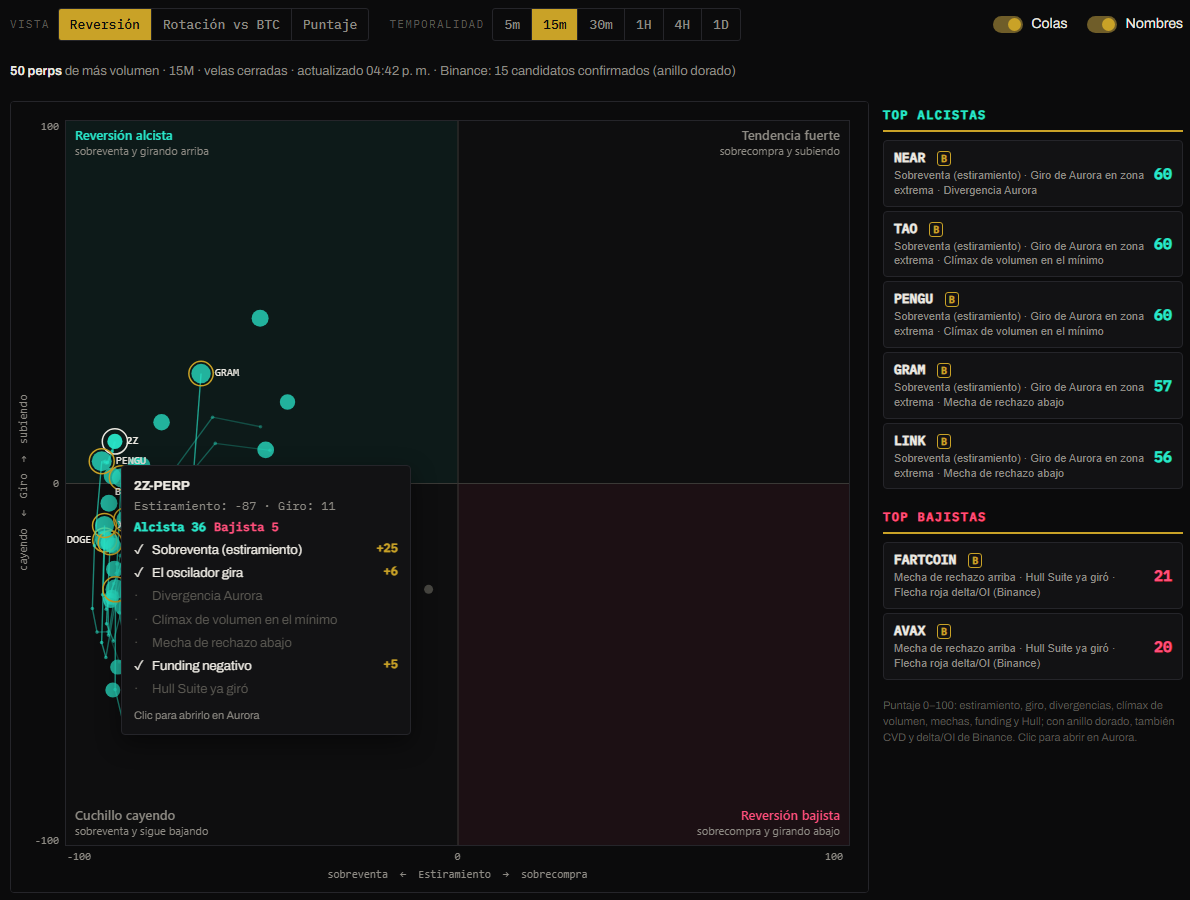
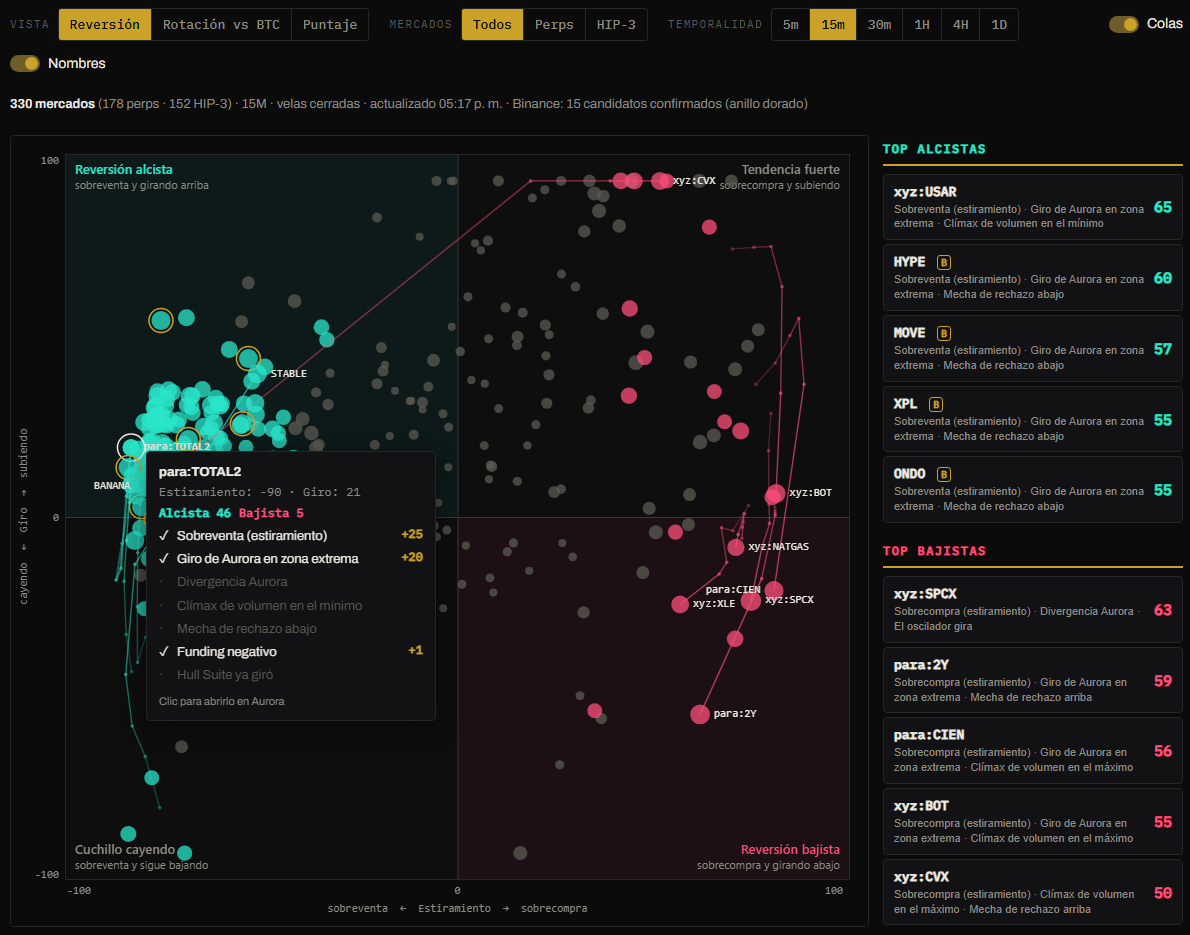
Scanner: todos los perps de crypto y HIP-3 (330 mercados)
- Universo seleccionable: Todos, Perps o HIP-3, en orden de volumen.
- Carga progresiva al ritmo que permite Hyperliquid (~45 por minuto), con
  avance y tiempo restante; se pausa si el Scanner no está a la vista.
- El WebSocket queda abierto: los datos siguen al día y cambiar de universo
  o volver a la sección no recarga nada. Si hay un corte, se pide de nuevo.
- Solo se recalculan los mercados con datos nuevos; funding de todos los dex.
- Binance se confirma apenas hay 60 mercados cargados.
- Plano con margen en los extremos y nombres de los 7 mejores de cada lado.

diff --git a/src/js/scanner/ui.js b/src/js/scanner/ui.js
@@ -1,4 +1,4 @@
-// Scanner · plano cartesiano con los 50 perps de más volumen. Tres vistas: Reversión (estiramiento
+// Scanner · plano cartesiano con todos los perps de crypto y HIP-3 de Hyperliquid. Tres vistas: Reversión (estiramiento
 // contra giro), Rotación contra BTC (tipo RRG) y Puntaje (alcista contra bajista). Solo velas cerradas.
 // env: { live, CAT, loadCatalog, hlPost, labelOf, openAurora(alias, tf) }
 window.createScanner = function createScanner(env) {
@@ -8,7 +8,9 @@ window.createScanner = function createScanner(env) {
   const WS_URL = 'wss://api.hyperliquid.xyz/ws', BF = 'https://fapi.binance.com';
   const IV_MS = { '5m': 3e5, '15m': 9e5, '30m': 18e5, '1h': 36e5, '4h': 144e5, '1d': 864e5 };
   const TF_AURORA = { '5m': '5', '15m': '15', '30m': '30', '1h': '60', '4h': '240', '1d': '1D' };
-  const UNIVERSE = 50, BARS = 150, TAIL = 5, BINANCE_TOP = 15;   // 150 velas: Aurora necesita ~60 para calentar
+  const BARS = 150, TAIL = 5, BINANCE_TOP = 15;   // 150 velas: Aurora necesita ~60 para calentar
+  const PER_MIN = 45;                              // historiales por minuto que permite Hyperliquid (peso ~23 c/u, 1100 por minuto)
+  const UNI = { all: (m) => m.group === 'perp' || m.group === 'hip3', perp: (m) => m.group === 'perp', hip3: (m) => m.group === 'hip3' };
   const COL = { bg: '#0B0B0C', line: '#25252A', axis: '#3A3936', text: '#8E8B84', fg: '#ECE9E2', bull: '#29E6C9', bear: '#FF4F7B', gold: '#C9A227', grey: '#5B5953' };
   const MODES = {
     rev: {
@@ -28,69 +30,106 @@ window.createScanner = function createScanner(env) {
   // ── Estado ─────────────────────────────────────────────────────────────
   const KEY = 'baScanner';
   let saved = null; try { saved = JSON.parse(localStorage.getItem(KEY)); } catch {}
-  const st = { mode: 'rev', tf: '15m', tails: true, names: true, ...(saved || {}) };
+  const st = { mode: 'rev', tf: '15m', uni: 'all', tails: true, names: true, ...(saved || {}) };
   if (!MODES[st.mode]) st.mode = 'rev';
   if (!IV_MS[st.tf]) st.tf = '15m';
+  if (!UNI[st.uni]) st.uni = 'all';
   const save = () => { try { localStorage.setItem(KEY, JSON.stringify(st)); } catch {} };
 
-  const data = new Map();    // alias → { k:[velas], res, flow, err }
-  let universe = [], funding = new Map(), ws = null, wsTimer = null, visible = false, token = 0;
-  let loaded = 0, lastCalc = 0, binanceAt = 0, binSet = null, pts = [], hover = null, drawQueued = false, calcTimer = null, binTimer = null;
+  // data: alias → { k:[velas], res, flow, dirty, stale }. Se conserva al cambiar de universo; se vacía al cambiar de temporalidad.
+  const data = new Map(), byCoin = new Map();
+  let universe = [], inUni = new Set(), need = [], queue = [], funding = new Map(), fundingAt = new Map();
+  let ws = null, wsTimer = null, visible = false, started = false, token = 0, loaderToken = -1, waiters = [];
+  let lastCalc = 0, binanceAt = 0, binSet = null, pts = [], hover = null, drawQueued = false, calcTimer = null, binTimer = null;
   const real = (alias) => env.CAT.realOf.get(alias) || alias;
-  const nameOf = (alias) => { const m = env.CAT.byAlias.get(alias); return m ? m.real : alias; };
+  const market = (alias) => env.CAT.byAlias.get(alias);
+  const nameOf = (alias) => { const m = market(alias); return m ? m.real : alias; };
   const toK = (x) => ({ t: +x.t, o: +x.o, h: +x.h, l: +x.l, c: +x.c, v: +x.v });
   const closedOf = (k) => { const now = Date.now(), ms = IV_MS[st.tf]; let n = k.length; while (n && k[n - 1].t + ms > now) n--; return k.slice(0, n); };
 
   // ── Datos de Hyperliquid ───────────────────────────────────────────────
+  // Funding de cada dex (el principal y los HIP-3), como mucho una vez cada 30 minutos.
   async function loadFunding() {
-    try {
-      const [meta, ctx] = await env.hlPost({ type: 'metaAndAssetCtxs' });
-      funding = new Map(meta.universe.map((u, i) => [u.name, +(ctx[i] || {}).funding]));
-    } catch {}
+    const dexes = [...new Set(need.map((a) => (market(a) || {}).dex || ''))];
+    await Promise.all(dexes.filter((d) => !(Date.now() - (fundingAt.get(d) || 0) < 30 * 60000)).map(async (dex) => {
+      try {
+        const [meta, ctx] = await env.hlPost(dex ? { type: 'metaAndAssetCtxs', dex } : { type: 'metaAndAssetCtxs' });
+        meta.universe.forEach((u, i) => funding.set(u.name, +(ctx[i] || {}).funding));
+        fundingAt.set(dex, Date.now());
+      } catch {}
+    }));
   }
+  const subscribe = (alias) => { if (ws && ws.readyState === 1) ws.send(JSON.stringify({ method: 'subscribe', subscription: { type: 'candle', coin: real(alias), interval: st.tf } })); };
   async function loadOne(alias, my) {
     const now = Date.now();
     try {
       const rows = await env.hlPost({ type: 'candleSnapshot', req: { coin: real(alias), interval: st.tf, startTime: now - BARS * IV_MS[st.tf], endTime: now } });
       if (my !== token) return;
-      data.set(alias, { k: (rows || []).map(toK), res: null, flow: null });
-    } catch { if (my === token) data.set(alias, { k: [], err: true }); }
-    loaded++;
+      const had = data.has(alias) && !data.get(alias).err;
+      data.set(alias, { k: (rows || []).map(toK), res: null, flow: null, dirty: true, stale: false });
+      byCoin.set(real(alias), alias);
+      if (!had) subscribe(alias);
+    } catch { if (my === token && !data.has(alias)) data.set(alias, { k: [], res: null, dirty: false, stale: false, err: true }); }
   }
-  async function loadAll() {
-    const my = ++token;
-    data.clear(); loaded = 0; pts = []; binanceAt = 0;
-    universe = env.CAT.list.filter((m) => m.group === 'perp').slice(0, UNIVERSE).map((m) => m.alias);
-    if (!universe.includes('BTC')) universe.unshift('BTC');
-    status(); draw();
-    await loadFunding();
-    let i = 0;
-    await Promise.all(Array.from({ length: 4 }, async () => {
-      while (i < universe.length && my === token) { await loadOne(universe[i++], my); if (my === token) { status(); schedule(300); } }
+  // Carga en orden de volumen, de a 3, y se pausa mientras el Scanner no está a la vista (para no frenar al resto).
+  const whenVisible = () => (visible ? null : new Promise((r) => waiters.push(r)));
+  async function runLoader() {
+    if (loaderToken === token) return;
+    const my = loaderToken = token;
+    await Promise.all(Array.from({ length: 3 }, async () => {
+      for (;;) {
+        if (my !== token) return;
+        const w = whenVisible(); if (w) await w;
+        if (my !== token) return;
+        const alias = queue.shift();
+        if (!alias) return;
+        const d = data.get(alias);
+        if (d && !d.stale && !d.err) continue;
+        await loadOne(alias, my);
+        if (my === token) { status(); schedule(800); if (!binanceAt && data.size >= 60) refreshBinance(); }   // confirma los primeros candidatos sin esperar a todos
+      }
     }));
     if (my !== token) return;
-    openWs(); compute(); refreshBinance();
+    loaderToken = -1;
+    if (queue.length) return runLoader();
+    compute(); refreshBinance();
+  }
+  function setUniverse() {
+    universe = env.CAT.list.filter(UNI[st.uni]).map((m) => m.alias);   // ya viene ordenado por volumen
+    inUni = new Set(universe);
+    need = [...new Set(['BTC', ...universe])];                           // BTC siempre: es la referencia de Rotación
+    queue = need.filter((a) => { const d = data.get(a); return !d || d.err; });
+    hover = null;
+    loadFunding(); status(); ranking(); draw();
+    runLoader();
+  }
+  function restart() {
+    token++; loaderToken = -1;
+    data.clear(); byCoin.clear(); pts = []; binanceAt = 0; lastCalc = 0;
+    closeWs(); openWs(); setUniverse();
   }
 
-  // Velas en vivo por WebSocket: cuando abre una vela nueva, la anterior quedó cerrada y se recalcula.
+  // Velas en vivo por WebSocket (sigue abierto aunque no se vea el Scanner, así no hay que volver a pedir historia).
+  // Cuando abre una vela nueva, la anterior quedó cerrada y se recalcula ese mercado.
   function openWs() {
-    closeWs();
-    const w = new WebSocket(WS_URL); ws = w;
+    const w = new WebSocket(WS_URL), my = token; ws = w;
     w.onopen = () => {
-      universe.forEach((a) => w.send(JSON.stringify({ method: 'subscribe', subscription: { type: 'candle', coin: real(a), interval: st.tf } })));
+      for (const [a, d] of data) if (!d.err) subscribe(a);
       wsTimer = setInterval(() => { try { w.send('{"method":"ping"}'); } catch {} }, 50000);
     };
     w.onmessage = (e) => {
       let m; try { m = JSON.parse(e.data); } catch { return; }
       if (m.channel !== 'candle' || !m.data || m.data.i !== st.tf) return;
-      const alias = universe.find((a) => real(a) === m.data.s);
-      const d = alias && data.get(alias);
+      const alias = byCoin.get(m.data.s), d = alias && data.get(alias);
       if (!d || !d.k.length) return;
       const c = toK(m.data), last = d.k[d.k.length - 1];
-      if (c.t === last.t) d.k[d.k.length - 1] = c;
-      else if (c.t > last.t) { d.k.push(c); if (d.k.length > BARS + 20) d.k.shift(); schedule(1500); planBinance(); }
+      if (c.t === last.t) { d.k[d.k.length - 1] = c; return; }
+      if (c.t < last.t) return;
+      if (c.t > last.t + 1.5 * IV_MS[st.tf]) { if (!d.stale) { d.stale = true; queue.push(alias); runLoader(); } return; }   // hubo un corte: pedir de nuevo
+      d.k.push(c); if (d.k.length > BARS + 20) d.k.shift();
+      d.dirty = true; schedule(1500); planBinance();
     };
-    w.onclose = () => { if (ws === w) { ws = null; clearInterval(wsTimer); if (visible) setTimeout(() => visible && !ws && openWs(), 5000); } };
+    w.onclose = () => { if (ws === w) { ws = null; clearInterval(wsTimer); setTimeout(() => my === token && !ws && openWs(), 5000); } };
   }
   function closeWs() { const w = ws; ws = null; clearInterval(wsTimer); if (w) try { w.close(); } catch {} }
 
@@ -101,11 +140,17 @@ window.createScanner = function createScanner(env) {
   }
   const bsym = (alias) => { const r = real(alias); return (/^k[A-Z]/.test(r) ? '1000' + r.slice(1) : r) + 'USDT'; };
   function planBinance() { clearTimeout(binTimer); binTimer = setTimeout(refreshBinance, 20000); }   // OI de Binance se publica unos segundos después del cierre
+  let binBusy = false;
   async function refreshBinance() {
+    if (binBusy) return;
+    binBusy = true;
+    try { await refreshBinanceNow(); } finally { binBusy = false; }
+  }
+  async function refreshBinanceNow() {
     const my = token, set = await binanceSymbols();
-    const ranked = [...data.entries()].filter(([a, d]) => d.res && set.has(bsym(a)))
+    const ranked = [...data.entries()].filter(([a, d]) => d.res && inUni.has(a) && set.has(bsym(a)))
       .sort((p, q) => Math.max(q[1].res.bull, q[1].res.bear) - Math.max(p[1].res.bull, p[1].res.bear)).slice(0, BINANCE_TOP);
-    for (const d of data.values()) d.flow = null;
+    for (const d of data.values()) if (d.flow) { d.flow = null; d.dirty = true; }
     await Promise.all(ranked.map(async ([alias, d]) => {
       const k = closedOf(d.k); if (k.length < 40) return;
       const sym = bsym(alias), ms = IV_MS[st.tf];
@@ -121,19 +166,24 @@ window.createScanner = function createScanner(env) {
         const o = F.oiSeries(times, b.ends, new Map(oi.map((r) => [+r.timestamp, +r.sumOpenInterest])), ms, null);
         // Las señales se guardan por hora de vela: los índices cambian cuando entra una vela nueva.
         const osc = A.compute(k).osc, byT = (e) => ({ ...e, t: times[e.i] });
+        d.dirty = true;
         d.flow = { sym, arrows: F.arrows(b, o.dOi, k.length).map(byT), divs: F.cvdDivergences(k.map((x) => x.h), k.map((x) => x.l), b.cvd, osc, k.length).map(byT) };
       } catch {}
     }));
     if (my !== token) return;
     binanceAt = Date.now();
+    loadFunding();
     compute();
   }
 
   // ── Cálculo ────────────────────────────────────────────────────────────
   function schedule(ms) { clearTimeout(calcTimer); calcTimer = setTimeout(compute, ms); }
   function compute() {
-    const btc = data.get('BTC'), btcK = btc ? closedOf(btc.k) : [];
+    // Solo se recalculan los mercados con datos nuevos; si cambió BTC, todos (es la referencia de Rotación).
+    const btc = data.get('BTC'), btcK = btc ? closedOf(btc.k) : [], all = !!(btc && btc.dirty);
     for (const [alias, d] of data) {
+      if (!all && !d.dirty) continue;
+      d.dirty = false;
       const k = closedOf(d.k);
       if (k.length < 60) { d.res = null; continue; }
       const a = A.compute(k), hull = A.hull(k.map((x) => x.c)), ax = S.axes(k, a);
@@ -156,10 +206,10 @@ window.createScanner = function createScanner(env) {
   // ── Plano ──────────────────────────────────────────────────────────────
   const cv = $('scCv');
   function range(mode) {
-    if (mode === 'rev') return { x0: -100, x1: 100, y0: -100, y1: 100, cx: 0, cy: 0 };
-    if (mode === 'score') return { x0: 0, x1: 100, y0: 0, y1: 100, cx: 40, cy: 40 };
+    if (mode === 'rev') return { x0: -108, x1: 108, y0: -108, y1: 108, cx: 0, cy: 0 };
+    if (mode === 'score') return { x0: -4, x1: 104, y0: -4, y1: 104, cx: 40, cy: 40 };
     let mx = 0.5, my = 0.5;
-    for (const d of data.values()) if (d.res) for (const p of d.res.path) { const [x, y] = p.rrg; if (Number.isFinite(x)) mx = Math.max(mx, Math.abs(x)); if (Number.isFinite(y)) my = Math.max(my, Math.abs(y)); }
+    for (const [a, d] of data) if (d.res && inUni.has(a)) for (const p of d.res.path) { const [x, y] = p.rrg; if (Number.isFinite(x)) mx = Math.max(mx, Math.abs(x)); if (Number.isFinite(y)) my = Math.max(my, Math.abs(y)); }
     return { x0: -mx * 1.15, x1: mx * 1.15, y0: -my * 1.15, y1: my * 1.15, cx: 0, cy: 0 };
   }
   // Lado al que se inclina el punto (para el color y el tamaño).
@@ -201,17 +251,18 @@ window.createScanner = function createScanner(env) {
     g.font = '11px ui-monospace, monospace'; g.fillStyle = COL.text; g.textAlign = 'center';
     g.fillText(`${M.lo}  ←  ${M.x}  →  ${M.hi}`, L + pw / 2, H - 14);
     g.save(); g.translate(16, T + ph / 2); g.rotate(-Math.PI / 2); g.fillText(`${M.ylo}  ←  ${M.y}  →  ${M.yhi}`, 0, 0); g.restore();
-    const fmtAx = (v) => (st.mode === 'rrg' ? (v > 0 ? '+' : '') + v.toFixed(1) + '%' : Math.round(v));
+    const fmtAx = (v) => (st.mode === 'rrg' ? (v > 0 ? '+' : '') + v.toFixed(1) + '%' : Math.max(st.mode === 'score' ? 0 : -100, Math.min(100, Math.round(v))));
     g.textAlign = 'center'; [R.x0, R.cx, R.x1].forEach((v, i) => g.fillText(fmtAx(v), i === 0 ? L + 14 : i === 2 ? L + pw - 16 : X(v), T + ph + 14));
     g.textAlign = 'right'; [R.y0, R.cy, R.y1].forEach((v, i) => g.fillText(fmtAx(v), L - 6, i === 0 ? T + ph - 2 : i === 2 ? T + 10 : Y(v) + 4));
 
     // Puntos: primero los chicos, al final los mejores (quedan arriba).
     pts = [];
-    const items = [...data.entries()].filter(([, d]) => d.res && Number.isFinite(d.res.path[d.res.path.length - 1][st.mode][0]))
+    const items = [...data.entries()].filter(([a, d]) => d.res && inUni.has(a) && Number.isFinite(d.res.path[d.res.path.length - 1][st.mode][0]))
       .map(([alias, d]) => { const s = lean(d), score = s > 0 ? d.res.bull : d.res.bear; return { alias, d, s, score }; })
       .sort((p, q) => p.score - q.score);
-    // Cola y nombre solo para los 14 mejores (y el punto bajo el mouse): con 50 colas no se lee nada.
-    const labelSet = new Set(items.slice(-14).map((x) => x.alias)), names = [];
+    // Cola y nombre solo para los 7 mejores de cada lado (y el punto bajo el mouse): con 300 colas no se lee nada.
+    const top = (side) => items.filter((x) => x.s === side).slice(-7).map((x) => x.alias);
+    const labelSet = new Set([...top(1), ...top(-1)]), names = [];
     // En Rotación el color es el del cuadrante; en las otras vistas, el lado al que se inclina si el puntaje alcanza.
     const rrgCol = ([x, y]) => (x < 0 ? (y >= 0 ? COL.bull : COL.grey) : (y >= 0 ? COL.gold : COL.bear));
     for (const it of items) {
@@ -290,7 +341,7 @@ window.createScanner = function createScanner(env) {
   cv.addEventListener('click', (e) => { const { best } = hit(e); if (best) env.openAurora(best.alias, TF_AURORA[st.tf]); });
 
   function ranking() {
-    const rows = [...data.entries()].filter(([, d]) => d.res);
+    const rows = [...data.entries()].filter(([a, d]) => d.res && inUni.has(a));
     const list = (side) => rows.map(([alias, d]) => ({ alias, d, s: side > 0 ? d.res.bull : d.res.bear }))
       .filter((x) => x.s >= 20).sort((p, q) => q.s - p.s).slice(0, 5)
       .map(({ alias, d, s }) => {
@@ -305,10 +356,13 @@ window.createScanner = function createScanner(env) {
   }));
   function status() {
     const hm = (t) => new Date(t).toLocaleTimeString('es-AR', { hour: '2-digit', minute: '2-digit' });
-    const parts = [];
-    if (loaded < universe.length) parts.push(`Cargando ${loaded}/${universe.length} mercados…`);
-    else if (lastCalc) parts.push(`<b>${[...data.values()].filter((d) => d.res).length} perps</b> de más volumen · ${st.tf.toUpperCase()} · velas cerradas · actualizado ${hm(lastCalc)}`);
-    if (binanceAt) parts.push(`Binance: ${[...data.values()].filter((d) => d.flow).length} candidatos confirmados (anillo dorado)`);
+    const ready = universe.filter((a) => data.has(a)).length, left = universe.length - ready, parts = [];
+    const shown = universe.filter((a) => (data.get(a) || {}).res);
+    const nP = shown.filter((a) => (market(a) || {}).group === 'perp').length, nH = shown.length - nP;
+    if (left > 0) parts.push(`Cargando <b>${ready}/${universe.length}</b> mercados, de mayor a menor volumen · faltan ~${Math.max(1, Math.ceil(left / PER_MIN))} min${visible ? '' : ' (en pausa)'}`);
+    else if (lastCalc) parts.push(`<b>${shown.length} mercados</b> (${nP} perps · ${nH} HIP-3) · ${st.tf.toUpperCase()} · velas cerradas · actualizado ${hm(lastCalc)}`);
+    const nBin = [...data.entries()].filter(([a, d]) => d.flow && inUni.has(a)).length;
+    if (binanceAt && nBin) parts.push(`Binance: ${nBin} candidatos confirmados (anillo dorado)`);
     $('scStatus').innerHTML = parts.join(' · ');
   }
 
@@ -316,31 +370,35 @@ window.createScanner = function createScanner(env) {
   function syncControls() {
     document.querySelectorAll('#scMode button').forEach((b) => b.setAttribute('aria-pressed', String(b.dataset.m === st.mode)));
     document.querySelectorAll('#scTf button').forEach((b) => b.setAttribute('aria-pressed', String(b.dataset.tf === st.tf)));
+    document.querySelectorAll('#scUni button').forEach((b) => b.setAttribute('aria-pressed', String(b.dataset.u === st.uni)));
     $('scTails').checked = st.tails; $('scNames').checked = st.names;
   }
   $('scMode').addEventListener('click', (e) => { const b = e.target.closest('button'); if (!b || b.dataset.m === st.mode) return; st.mode = b.dataset.m; save(); syncControls(); draw(); });
   $('scTf').addEventListener('click', (e) => {
     const b = e.target.closest('button'); if (!b || b.dataset.tf === st.tf) return;
-    st.tf = b.dataset.tf; save(); syncControls(); closeWs(); loadAll();
+    st.tf = b.dataset.tf; save(); syncControls(); if (started) restart();
+  });
+  $('scUni').addEventListener('click', (e) => {
+    const b = e.target.closest('button'); if (!b || b.dataset.u === st.uni) return;
+    st.uni = b.dataset.u; save(); syncControls(); if (started) setUniverse();
   });
   $('scTails').addEventListener('change', (e) => { st.tails = e.target.checked; save(); draw(); });
   $('scNames').addEventListener('change', (e) => { st.names = e.target.checked; save(); draw(); });
   window.addEventListener('resize', () => visible && draw());
   syncControls();
 
-  let started = false, hiddenAt = 0;
   return {
     async show() {
       visible = true; draw();
+      waiters.splice(0).forEach((r) => r());   // reanuda la carga si estaba en pausa
       if (!env.live) { status(); return; }
       if (!started) {
         started = true;
         if (!env.CAT.ready) { try { await env.loadCatalog(); } catch {} }
-        loadAll();
-      } else if (hiddenAt && Date.now() - hiddenAt > IV_MS[st.tf]) loadAll();   // se perdió al menos una vela: datos nuevos
-      else if (!ws && universe.length) { openWs(); schedule(500); }
-      hiddenAt = 0;
+        openWs(); setUniverse();
+      } else status();
     },
-    hide() { if (visible) hiddenAt = Date.now(); visible = false; closeWs(); tip.hidden = true; }
+    // El WebSocket sigue abierto: los datos se mantienen al día y al volver no hay que recargar.
+    hide() { visible = false; tip.hidden = true; }
   };
 };

diff --git a/src/index.html b/src/index.html
@@ -417,13 +417,19 @@
   <section id="panel-scan" class="sc" aria-labelledby="h-scan" hidden>
   <header class="view-head">
     <h1 id="h-scan">Scanner · Reversiones</h1>
-    <p class="sp-cap"><b>Los 50 perps de más volumen en un plano: quién está estirado y quién ya empezó a girar.</b> Cada punto es un mercado; su cola muestra las últimas 5 velas cerradas.</p>
+    <p class="sp-cap"><b>Todos los perps de crypto y HIP-3 de Hyperliquid en un plano: quién está estirado y quién ya empezó a girar.</b> Cada punto es un mercado; su cola muestra las últimas 5 velas cerradas.</p>
   </header>
   <div class="controls" role="group" aria-label="Scanner">
     <div class="ctl">
       <span class="lbl">Vista</span>
       <div class="seg scroll" id="scMode">
         <button type="button" data-m="rev" aria-pressed="true">Reversión</button><button type="button" data-m="rrg">Rotación vs BTC</button><button type="button" data-m="score">Puntaje</button>
+      </div>
+    </div>
+    <div class="ctl">
+      <span class="lbl">Mercados</span>
+      <div class="seg scroll" id="scUni">
+        <button type="button" data-u="all" aria-pressed="true">Todos</button><button type="button" data-u="perp">Perps</button><button type="button" data-u="hip3">HIP-3</button>
       </div>
     </div>
     <div class="ctl">

diff --git a/docs/secciones/scanner.md b/docs/secciones/scanner.md
@@ -1,10 +1,10 @@
 ---
-description: Los 50 perps de más volumen en un plano, para encontrar los mejores momentos de reversión.
+description: Todos los perps de crypto y HIP-3 de Hyperliquid en un plano, para encontrar los mejores momentos de reversión.
 ---
 
 # Scanner
 
-Ubica los **50 perps de más volumen de Hyperliquid** en un plano cartesiano. Cada punto es un mercado y su posición responde dos preguntas: **¿qué tan estirado está?** y **¿ya empezó a girar?** Los mejores candidatos a reversión quedan en dos esquinas.
+Ubica **todos los perps de crypto y los mercados HIP-3 de Hyperliquid** (más de 300) en un plano cartesiano. Cada punto es un mercado y su posición responde dos preguntas: **¿qué tan estirado está?** y **¿ya empezó a girar?** Los mejores candidatos a reversión quedan en dos esquinas.
 
 ![Scanner en la vista Reversión](../.gitbook/assets/scanner.png)
 
@@ -17,6 +17,7 @@ El Scanner **no da entradas: muestra dónde mirar.** Hacé clic en un punto para
 | Control | Qué hace |
 |---|---|
 | **Vista** | Reversión, Rotación vs BTC o Puntaje: tres formas de leer el mismo grupo de mercados. |
+| **Mercados** | **Todos**, solo **Perps** de crypto o solo **HIP-3** (acciones, índices, materias primas y otros mercados de los dex HIP-3). |
 | **Temporalidad** | 5m, 15m, 30m, 1H, 4H o 1D. |
 | **Colas** | El recorrido de las últimas 5 velas cerradas de los mejores candidatos. |
 | **Nombres** | Los nombres de los mejores candidatos sobre el plano. |
@@ -79,8 +80,17 @@ Las dos condiciones de Binance se revisan para los **15 mejores candidatos** que
 A la derecha, **Top alcistas** y **Top bajistas** muestran los 5 mejores de cada lado con sus tres motivos principales.
 
 {% hint style="info" %}
-**Nada se repinta.** Todo se calcula con **velas cerradas** y se actualiza solo cuando cierra cada vela. Al abrir el Scanner, la primera carga puede tardar alrededor de un minuto: son 50 mercados y Hyperliquid limita la cantidad de pedidos.
+**Nada se repinta.** Todo se calcula con **velas cerradas** y se actualiza solo cuando cierra cada vela.
 {% endhint %}
+
+## La primera carga
+
+Hyperliquid permite pedir el historial de unos **45 mercados por minuto**, así que la primera carga completa tarda **unos 7 minutos** con *Todos* (unos 4 con *Perps* y 3 con *HIP-3*). Para que sea útil desde el principio:
+
+- Los mercados se cargan **de mayor a menor volumen**: los más líquidos aparecen en el primer minuto.
+- Arriba del plano se ve el avance y cuánto falta.
+- Si salís del Scanner, la carga **se pausa** para no frenar el resto de la terminal, y sigue cuando volvés.
+- Una vez cargado, se mantiene al día en vivo: volver al Scanner o cambiar entre *Todos*, *Perps* y *HIP-3* es instantáneo. Cambiar la **temporalidad** sí vuelve a cargar todo.
 
 ![Detalle de un mercado al pasar el mouse](../.gitbook/assets/scanner-detalle.png)
 

diff --git a/README.md b/README.md
@@ -8,7 +8,7 @@ Panel de trading de Bull Army sobre datos en vivo de [Hyperliquid](https://hyper
 | **Indicador** | El indicador **Extremos** (Pine Script) ejecutado en el navegador sobre cualquier mercado de Hyperliquid, con señales, niveles de entrada/stop/TP e historial de trades. |
 | **Aurora** | Velas con el oscilador **Aurora** (cinco osciladores, flujo, volumen, divergencias y Order Blocks), el **Hull Suite** de InSilico, el flujo de **Binance Futures** (delta, CVD y open interest, con flechas delta/OI y divergencias CVD sin repintar) y **VWAP** diario, semanal, mensual, trimestral y anual. |
 | **Grid** | Screener de 2×2 a 5×5 con velas, **Aurora** y **Hull** en vivo por celda, activos a elección (perps, spot o HIP-3) y alertas visuales. |
-| **Scanner** | Plano cartesiano con los 50 perps de más volumen: vistas Reversión (estiramiento vs giro), Rotación vs BTC (tipo RRG) y Puntaje, con colas de 5 velas, ranking alcista/bajista y confirmación de Binance para los 15 mejores. |
+| **Scanner** | Plano cartesiano con todos los perps de crypto y HIP-3 (filtro Todos/Perps/HIP-3, carga por volumen y en pausa cuando no se ve): vistas Reversión (estiramiento vs giro), Rotación vs BTC (tipo RRG) y Puntaje, con colas de 5 velas, ranking alcista/bajista y confirmación de Binance para los 15 mejores. |
 | **Spaghetti** | Todos los activos de Hyperliquid en un mismo gráfico para ver quién lidera y quién se queda. |
 | **Liquidaciones** | Mapa de los precios de liquidación de las cuentas más grandes de Hyperliquid. |
 | **Noticias** | Feed de Tree News en tiempo real y calendario macro de la semana. |

diff --git a/docs/README.md b/docs/README.md
@@ -51,7 +51,7 @@ En el menú lateral están las secciones. Cada una tiene su propia dirección, a
 | [**Indicador**](secciones/indicador.md) | Buscar entradas con el indicador Extremos sobre cualquier mercado de Hyperliquid. |
 | [**Aurora**](secciones/aurora.md) | Leer el contexto con el oscilador Aurora (cinco osciladores, flujo, volumen, divergencias y Order Blocks) y el Hull Suite sobre las velas. |
 | [**Grid**](secciones/grid.md) | Seguir de 4 a 25 mercados a la vez, con alertas visuales cuando Aurora marca algo. |
-| [**Scanner**](secciones/scanner.md) | Ver en un plano cuáles de los 50 perps con más volumen están estirados y empezando a girar: los mejores momentos de reversión. |
+| [**Scanner**](secciones/scanner.md) | Ver en un plano cuáles de todos los perps de crypto y HIP-3 están estirados y empezando a girar: los mejores momentos de reversión. |
 | [**Spaghetti**](secciones/spaghetti.md) | Comparar todos los activos en un mismo gráfico: quién lidera y quién se queda. |
 | [**Liquidaciones**](secciones/liquidaciones.md) | Ver dónde se concentran los precios de liquidación de las cuentas grandes. |
 | [**Noticias**](secciones/noticias.md) | Enterarte de lo que mueve el mercado y de los datos macro de la semana. |
